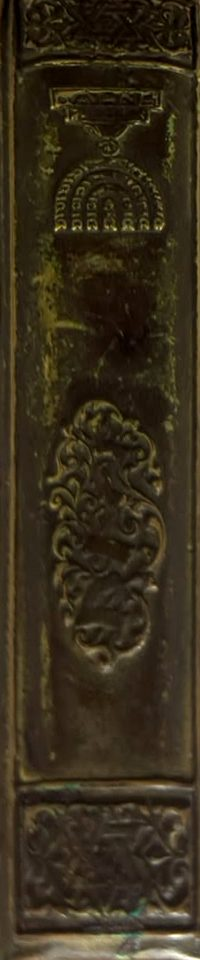
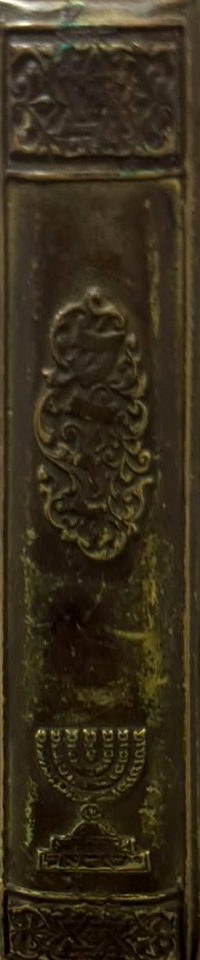
Open book: bending page turns, 3D page stacks, thick covers; fix upside-down spine
Pages are built from two halves so the outer half bends while turning,
with shading as it lifts. Page stacks are real 3D blocks whose thickness
follows the reading position, and leaves sit on top of them. The spine
image was rotated the wrong way and is now upright.

diff --git a/script.js b/script.js
@@ -321,18 +321,50 @@
     return el;
   }
 
+  // עובי ערימות הדפים משני הצדדים (בפיקסלים), לפי כמה דפים יש בכל צד
+  function stackDepths() {
+    const pw = parseFloat(getComputedStyle(root).getPropertyValue("--pw"));
+    const maxT = pw * 0.14, pagesLeaves = Math.max(1, n - 2);
+    const left = n - 1 - Math.max(current, 1), right = Math.max(0, Math.min(current - 1, n - 2));
+    return { L: maxT * left / pagesLeaves, R: maxT * right / pagesLeaves, left, right };
+  }
+
   function leafTransform(i) {
     const flipped = i < current;
+    const { L, R } = stackDepths();
     let z;
-    if (i === 0 || i === n - 1) z = 0;
-    else z = Math.max(1, 12 - (flipped ? current - 1 - i : i - current)) * 0.6;
-    return `translateZ(${z}px) rotateY(${flipped ? 180 : 0}deg)`;
+    if (i === 0) z = flipped ? 0 : L + 8;            // הכריכה הקדמית: מעל הדפים כשהספר סגור
+    else if (i === n - 1) z = flipped ? R + 8 : 0;   // הכריכה האחורית
+    else z = (flipped ? R : L) + Math.max(1, 12 - (flipped ? current - 1 - i : i - current)) * 0.6;
+    return `translateZ(${z.toFixed(2)}px) rotateY(${flipped ? 180 : 0}deg)`;
+  }
+
+  // דף רגיל בנוי משני חצאים, כדי שיוכל להתכופף באמצע בזמן הדפדוף
+  function halfFace(i, side, offset) {
+    const half = document.createElement("div");
+    half.className = `half ${side}`;
+    const face = buildFace(i, side);
+    face.style.left = offset ? "calc(var(--pw) / -2)" : "0";
+    const shade = document.createElement("div");
+    shade.className = "shade";
+    half.append(face, shade);
+    return half;
   }
 
   function createLeaf(i) {
     const leaf = document.createElement("div");
-    leaf.className = "leaf" + (i === 0 || i === n - 1 ? " cover" : "");
-    leaf.append(buildFace(i, "front"), buildFace(i, "back"));
+    const isCover = i === 0 || i === n - 1;
+    leaf.className = "leaf" + (isCover ? " cover" : " page-leaf");
+    if (isCover) leaf.append(buildFace(i, "front"), buildFace(i, "back"));
+    else {
+      const inner = document.createElement("div"); // החצי שליד השדרה
+      inner.className = "seg seg-in";
+      inner.append(halfFace(i, "front", true), halfFace(i, "back", false));
+      const outer = document.createElement("div"); // החצי החיצוני — מתכופף
+      outer.className = "seg seg-out";
+      outer.append(halfFace(i, "front", false), halfFace(i, "back", true));
+      leaf.append(inner, outer);
+    }
     leaf.style.transition = "none";
     leaf.style.transform = leafTransform(i);
     book.appendChild(leaf);
@@ -341,13 +373,10 @@
     leafEls.set(i, leaf);
   }
 
-  function setStack(el, count, dir) {
-    const T = Math.round(Math.min(1, count / Math.max(1, n - 2)) * 14);
-    const sh = [];
-    for (let j = 1; j <= T; j++) sh.push(`${dir * j * 0.45}px ${j * 0.55}px 0 ${j % 2 ? "#e6d6b4" : "#bfa77b"}`);
-    if (T) sh.push(`${dir * T * 0.45 + dir * 2}px ${T * 0.55 + 4}px 8px rgba(0,0,0,.35)`);
-    el.style.boxShadow = sh.join(",") || "none";
-    el.style.visibility = count > 0 && current > 0 && current < n ? "visible" : "hidden";
+  for (const st of [stackL, stackR]) st.innerHTML = '<div class="st-top"></div><div class="st-bottom"></div><div class="st-side"></div>';
+  function setStack(el, count, depth) {
+    el.style.setProperty("--t", depth.toFixed(2) + "px");
+    el.style.visibility = count > 0 ? "visible" : "hidden";
   }
 
   function render() {
@@ -362,8 +391,9 @@
       }
     });
 
-    setStack(stackL, n - 1 - Math.max(current, 1), -1);
-    setStack(stackR, Math.min(current - 1, n - 2), 1);
+    const sd = stackDepths();
+    setStack(stackL, sd.left, sd.L);
+    setStack(stackR, sd.right, sd.R);
 
     book.classList.toggle("closed-start", current === 0);
     book.classList.toggle("closed-end", current === n);
@@ -390,8 +420,17 @@
     render();
   }
 
-  const next = () => { if (current < n) { current++; render(); } };
-  const prev = () => { if (current > 0) { current--; render(); } };
+  function animateTurn(i, cls) {
+    const leaf = leafEls.get(i);
+    if (!leaf || !leaf.classList.contains("page-leaf")) return;
+    leaf.classList.remove("turn-fwd", "turn-back");
+    leaf.getBoundingClientRect();
+    leaf.classList.add(cls);
+    clearTimeout(leaf._t);
+    leaf._t = setTimeout(() => leaf.classList.remove(cls), 1050);
+  }
+  const next = () => { if (current < n) { current++; render(); animateTurn(current - 1, "turn-fwd"); } };
+  const prev = () => { if (current > 0) { current--; render(); animateTurn(current, "turn-back"); } };
 
   $("#next").addEventListener("click", next);
   $("#prev").addEventListener("click", prev);

diff --git a/style.css b/style.css
@@ -296,12 +296,48 @@ body {
 .leaf.cover .page-face::after { display: none; }
 .leaf.cover .page-face.front.inside-cover, .leaf.cover .page-face.back.inside-cover { box-shadow: inset 0 0 0 3px #8a7440, inset 0 0 0 5px #3b2a14, inset 0 0 30px rgba(0,0,0,.6); }
 
+/* ערימות הדפים — קופסאות תלת־ממדיות שהעובי שלהן משתנה בזמן הדפדוף */
+@property --t { syntax: "<length>"; inherits: true; initial-value: 0px; }
 .stack {
   position: absolute; top: 0; left: 0; width: var(--pw); height: var(--ph);
-  background: #e9dbb9; border-radius: 4px 0 0 4px;
-  transform: translateZ(.2px); pointer-events: none;
+  transform-style: preserve-3d; pointer-events: none;
+  transition: --t .9s cubic-bezier(.645,.045,.355,1);
 }
-.stack.right { left: var(--pw); border-radius: 0 4px 4px 0; }
+.stack.right { left: var(--pw); }
+.stack > div { position: absolute; backface-visibility: hidden; }
+.st-top { inset: 0; transform: translateZ(var(--t)); background: #e2cd9f; }
+.st-bottom {
+  left: 0; top: 100%; width: 100%; height: var(--t); transform-origin: top;
+  transform: translateZ(var(--t)) rotateX(-90deg);
+  background: repeating-linear-gradient(180deg, #ead9b2 0 1px, #c4ab78 1px 2px, #e3cfa3 2px 3px), #dcc596;
+  box-shadow: inset 0 0 6px rgba(90,60,20,.45);
+}
+.st-side {
+  left: 0; top: 0; width: var(--t); height: 100%; transform-origin: left;
+  transform: rotateY(-90deg);
+  background: repeating-linear-gradient(90deg, #ead9b2 0 1px, #c4ab78 1px 2px, #e3cfa3 2px 3px), #dcc596;
+  box-shadow: inset 0 0 6px rgba(90,60,20,.45);
+}
+.stack.right .st-side { left: 100%; transform: translateZ(var(--t)) rotateY(90deg); }
+
+/* דף שמתכופף בזמן הדפדוף */
+.leaf.page-leaf .seg { position: absolute; top: 0; height: 100%; width: 50%; transform-style: preserve-3d; }
+.leaf.page-leaf .seg-in { left: 50%; }
+.leaf.page-leaf .seg-out { left: 0; transform-origin: right center; }
+.half { position: absolute; inset: 0; overflow: hidden; backface-visibility: hidden; -webkit-backface-visibility: hidden; }
+.half.back { transform: rotateY(180deg); }
+.half > .page-face { inset: 0 auto; width: var(--pw); height: 100%; transform: none; }
+.half .shade { position: absolute; inset: 0; opacity: 0; pointer-events: none; background: linear-gradient(90deg, rgba(40,25,10,.45), rgba(40,25,10,.15)); }
+.half.back .shade { background: linear-gradient(270deg, rgba(40,25,10,.45), rgba(40,25,10,.15)); }
+.leaf.turn-fwd .seg-out { animation: bend-fwd 1s cubic-bezier(.645,.045,.355,1); }
+.leaf.turn-back .seg-out { animation: bend-back 1s cubic-bezier(.645,.045,.355,1); }
+.leaf.turn-fwd .shade, .leaf.turn-back .shade { animation: turn-shade 1s ease-in-out; }
+@keyframes bend-fwd { 0% { transform: rotateY(0); } 45% { transform: rotateY(-32deg); } 100% { transform: rotateY(0); } }
+@keyframes bend-back { 0% { transform: rotateY(0); } 45% { transform: rotateY(32deg); } 100% { transform: rotateY(0); } }
+@keyframes turn-shade { 0% { opacity: 0; } 50% { opacity: 1; } 100% { opacity: 0; } }
+
+/* הכריכה עבה — רואים את שולי המתכת */
+.leaf.cover .page-face { box-shadow: 0 calc(var(--pw) * .012) 0 #8a6d33, 0 calc(var(--pw) * .02) 0 #4e3d1b; }
 
 .gen-page { color: #1c1209; }
 .gen-page.page-face { background-color: #e9d6ad; }

diff --git a/index.html b/index.html
@@ -6,7 +6,7 @@
   <title>ספר התנ״ך של סבא שלי</title>
   <link rel="preconnect" href="https://fonts.googleapis.com">
   <link href="https://fonts.googleapis.com/css2?family=Frank+Ruhl+Libre:wght@400;700;900&family=Heebo:wght@400;600&display=swap" rel="stylesheet">
-  <link rel="stylesheet" href="style.css?v=9">
+  <link rel="stylesheet" href="style.css?v=12">
 </head>
 <body>
   <header class="site-header">
@@ -62,7 +62,7 @@
     </div>
   </div>
 
-  <script src="book-config.js?v=9"></script>
-  <script src="script.js?v=9"></script>
+  <script src="book-config.js?v=12"></script>
+  <script src="script.js?v=12"></script>
 </body>
 </html>

diff --git a/book-config.js b/book-config.js
@@ -12,7 +12,7 @@ const BOOK_CONFIG = {
   outside: {
     front: "images/cover-front.jpg",
     back: "images/cover-back.jpg",
-    spine: "images/spine.jpg",
+    spine: "images/spine.jpg?v=2",
     edgeSide: "images/edge-v.jpg",   // צד הדפים
     edgeTop: "images/edge-h.jpg",    // הדפים מלמעלה ומלמטה
   },
